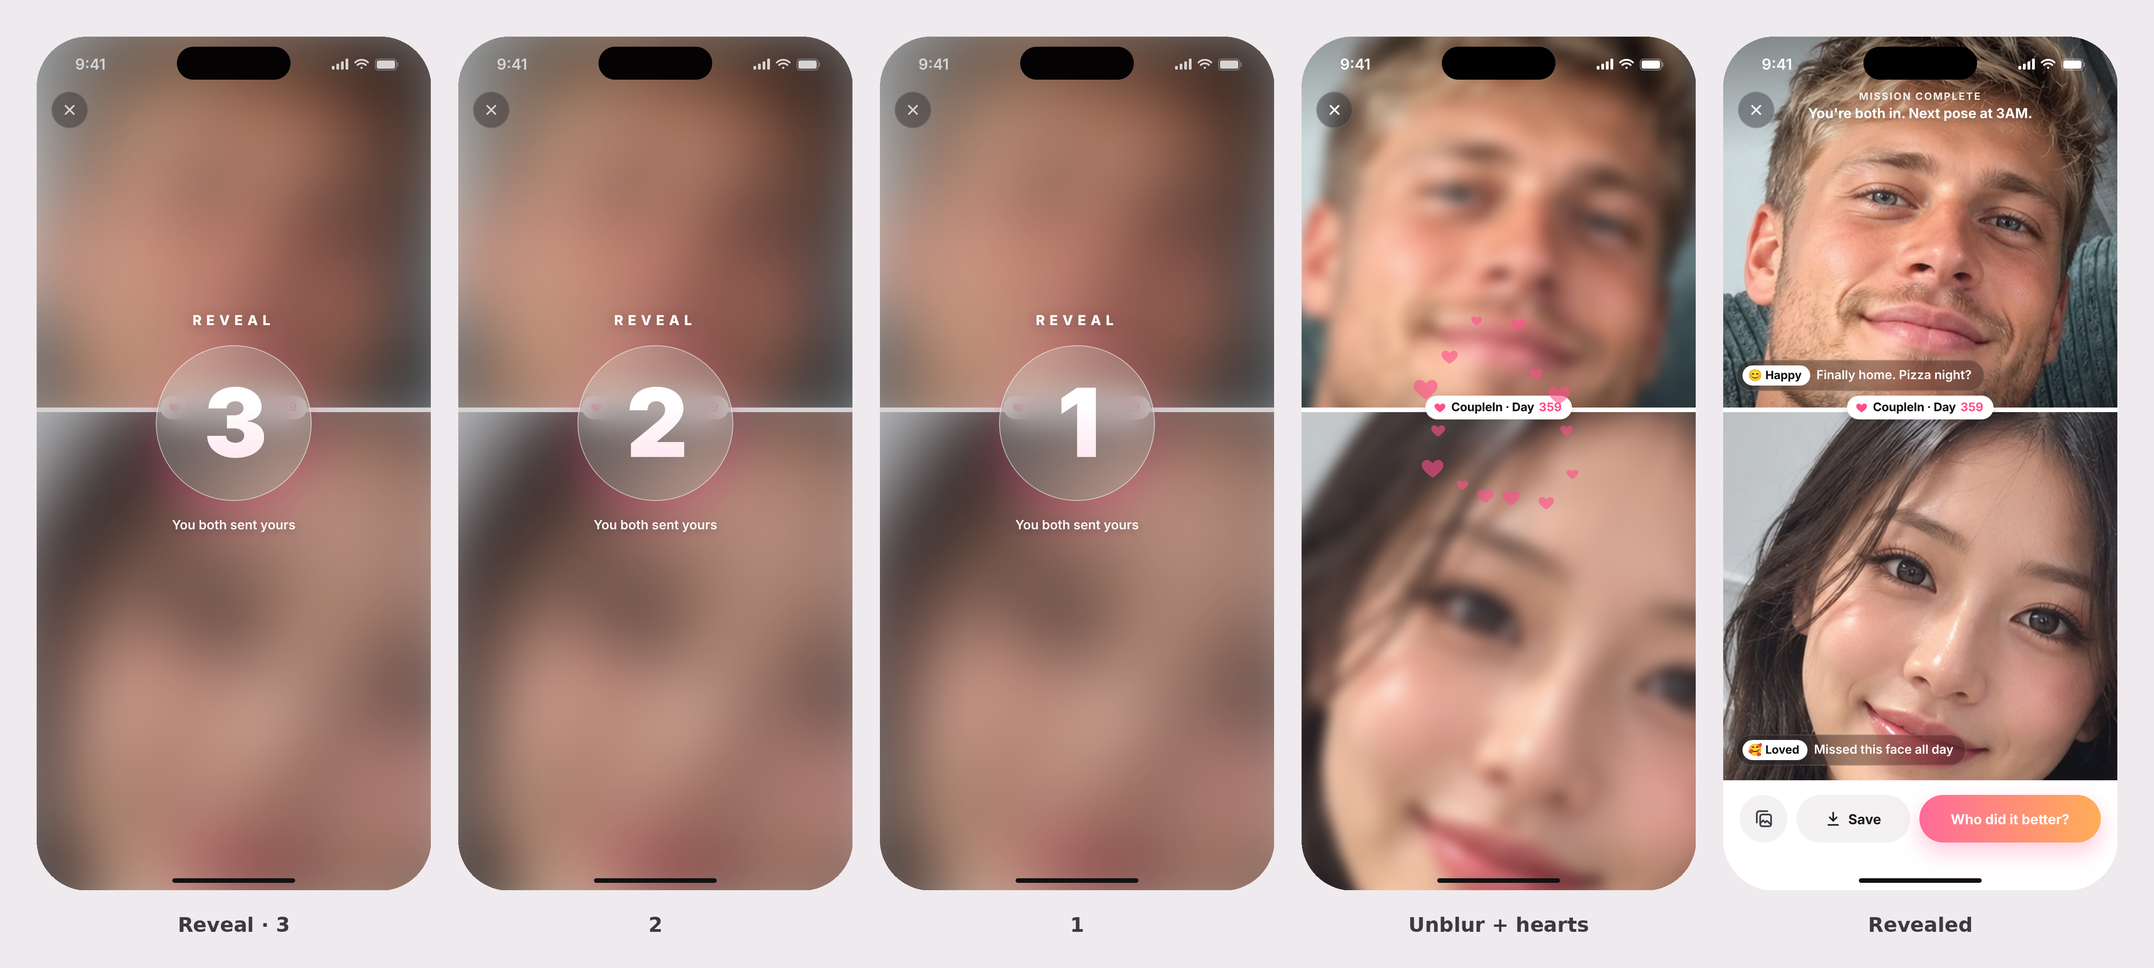
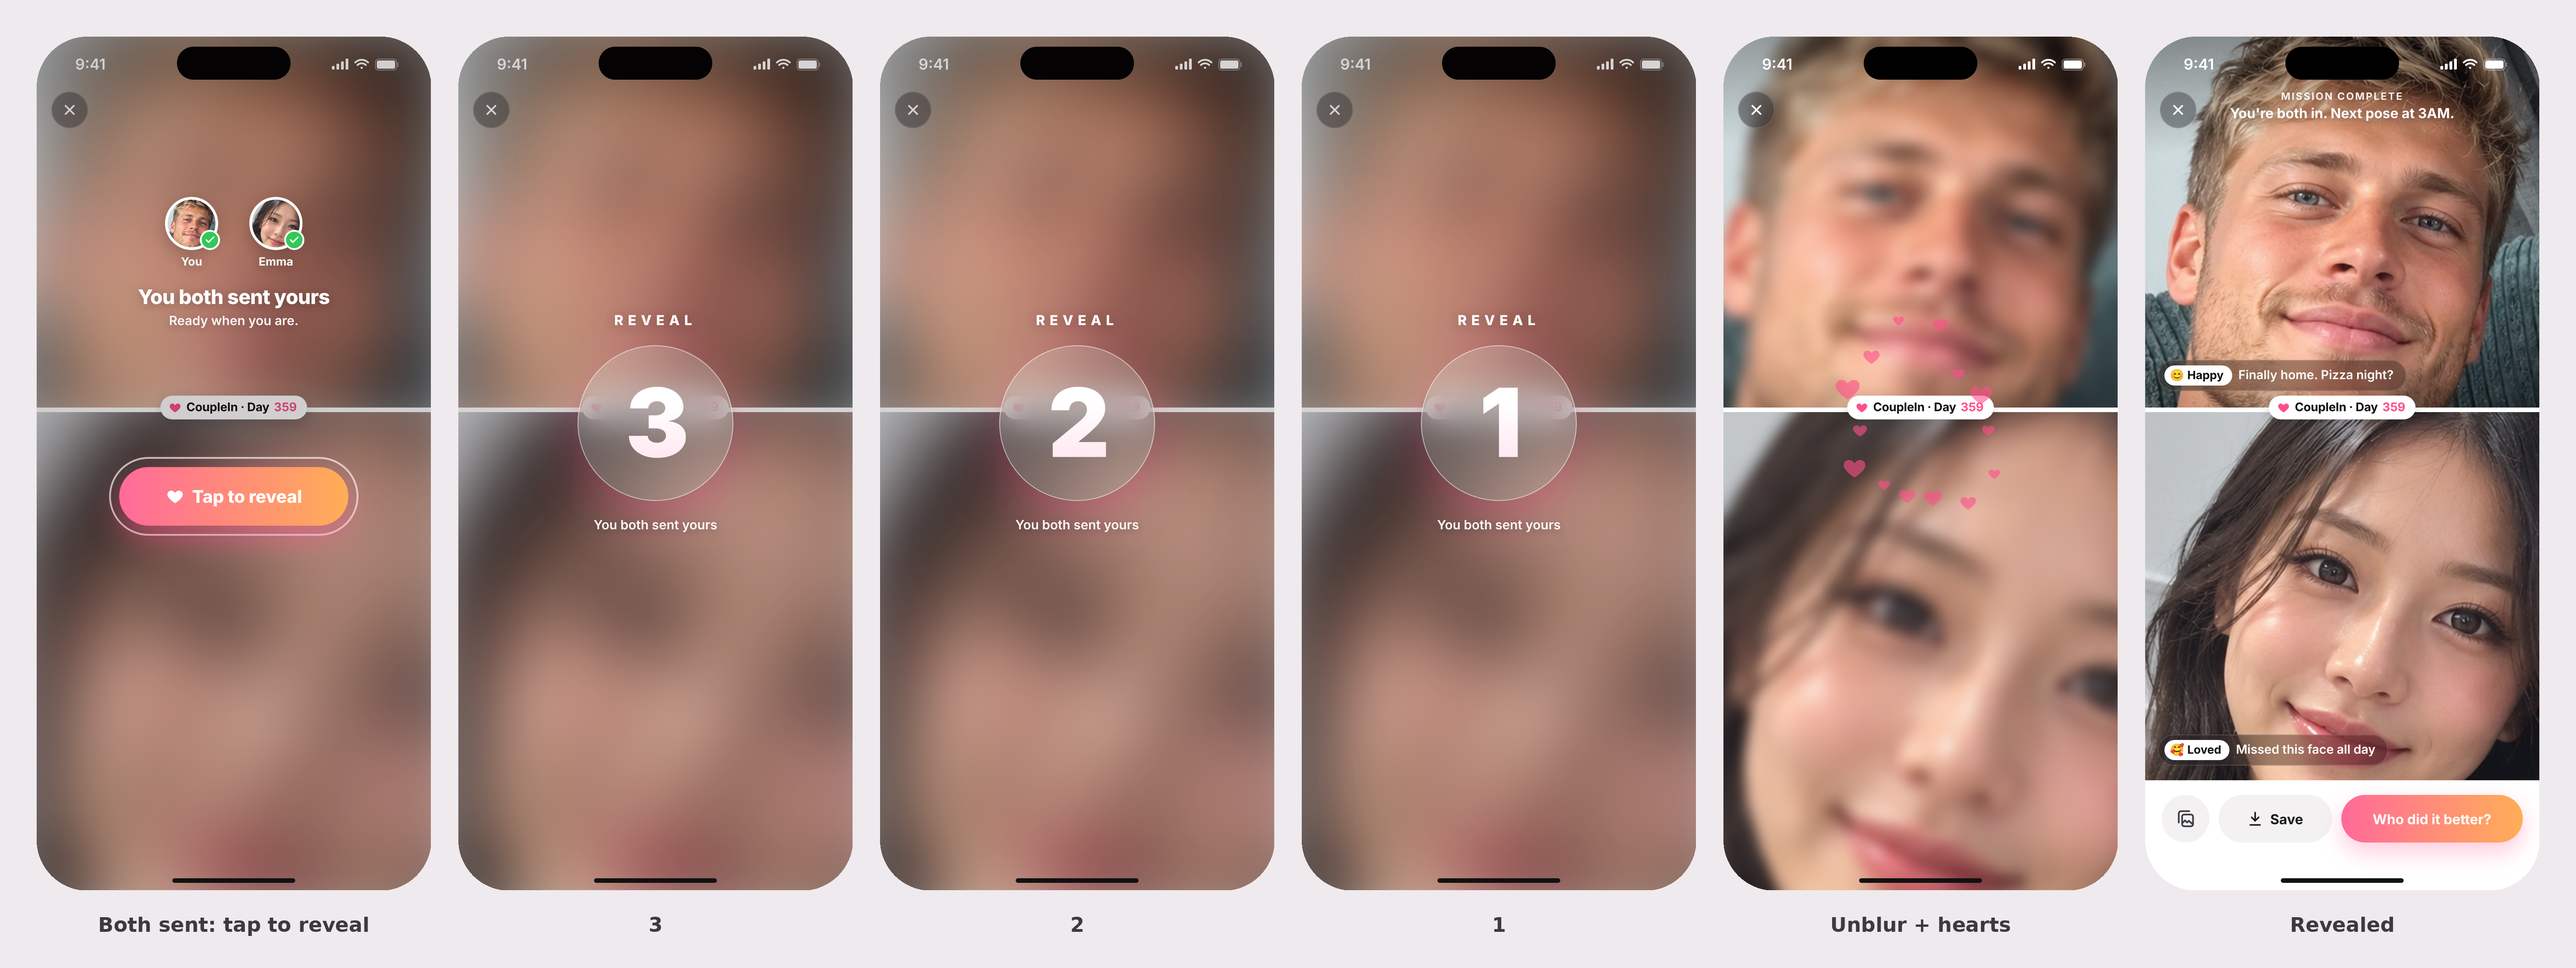
Reveal starts only when the user taps 'Tap to reveal'; updated frames and GIF
Claude-Session: https://claude.ai/code/session_01437rANtd5MAYdKDkxZsNAs

diff --git a/final-plan/Final-Plan-Developer.md b/final-plan/Final-Plan-Developer.md
@@ -122,7 +122,7 @@ The promise made before any photo is taken: neither partner can see the other's 
 10. **Share screen.** Message: "Hi [Partner Name], [Your Name] loves that you are so [compliment]. They made a selfie just for you. Send yours to unlock it." The blurred locked card is attached as an image. Buttons: Share to WhatsApp / Copy link / Remind me later.
 11. **Waiting screen.** Own locked card, "Waiting for [Partner Name] to join." Send reminder. Further selfies stack as locked and unlock when the partner joins. Warning: "Your selfies live on this phone. Don't delete the app until [Partner Name] joins."
 12. **Push when the partner sends:** "[Partner Name] just sent theirs. Tap to reveal."
-13. **Countdown:** "Reveal" then "3... 2... 1..." (section 5), then the reveal. Buttons: Save card / Who did it better?
+13. **Countdown:** Tap to reveal, then "Reveal" "3... 2... 1..." (section 5), then the reveal. Buttons: Save card / Who did it better?
 14. **Week 1 video promise.** "Send 7 poses and we'll make you a video of your first week."
 
 **Flow B: User 2 (partner, arrives by invite)**
@@ -175,17 +175,19 @@ After the photo the timer switches itself back off, so the next photo is a norma
 
 **Camera permission denied.** Explain why and link to Settings. A gallery fallback is allowed only in this case, with a warning.
 
-**Reveal countdown (animated).** Plays as soon as both partners have sent (or when the "[Partner] just sent theirs" push is tapped). Full screen: no tab bar, no header text, no action buttons, only the X. Both photos sit in place but heavily blurred (about 34px), with the white line between them. Centred over the line: "REVEAL" in spaced capitals, a frosted-glass circle with the number, and "You both sent yours" underneath.
+**Tap to reveal (the user starts it).** The reveal never plays on its own. As soon as both partners have sent, each partner lands on a "ready" screen (from the camera, from the "[Partner] just sent theirs" push, or when they next open the app): both photos in place but heavily blurred (about 34px), the white line and Day pill between them, both profile photos with green ticks, "You both sent yours" and "Ready when you are.", and one big pink button, **♥ Tap to reveal**, sitting just under the line with a soft pulsing ring around it. Only the X is shown otherwise. Each partner taps their own button; one partner revealing does not reveal for the other. If the user leaves without tapping, they come back to this same screen.
+
+**Reveal countdown (animated).** Starts the moment the user taps the button (the button presses in to 95%). Full screen: no tab bar, no header text, no action buttons, only the X. Centred over the line: "REVEAL" in spaced capitals, a frosted-glass circle with the number, and "You both sent yours" underneath.
 
 1. **3, 2, 1.** One second per number. Each number pops in at 125% and settles to 100% in about 250ms, with a light haptic on each.
 2. **Reveal.** After 1 the circle fades, both photos unblur over about 0.8s, and a burst of small pink hearts flies out from the Day pill on the line.
 3. **Revealed.** The caption and mood pills, the header "Mission complete / You're both in. Next pose at 3AM." and the white action strip (Our cards, Save, Who did it better?) slide in.
 
-No skip. It runs from local state with no network dependency: both photos are already on the phone and the combined card is cached before the countdown starts, so there is no spinner. If the app is closed mid-countdown, reopening lands on the revealed screen. If the user taps the push hours later, the countdown still plays. "Who did it better?" never appears during the countdown.
+No skip. It runs from local state with no network dependency: both photos are already on the phone and the combined card is cached before the countdown starts, so there is no spinner. If the app is closed mid-countdown, reopening lands on the revealed screen. If the user opens the app or taps the push hours later, they land on the Tap to reveal screen and the countdown plays when they tap. "Who did it better?" never appears during the countdown.
 
-![Reveal countdown: 3, 2, 1, unblur with hearts, revealed](images/reveal-countdown.png)
+![Reveal: Tap to reveal, 3, 2, 1, unblur with hearts, revealed](images/reveal-countdown.png)
 
-![Reveal animation (loop)](images/reveal-animation.gif)
+![Reveal animation (loop): tap, countdown, unblur, revealed](images/reveal-animation.gif)
 
 **Reveal screen.** Both photos clean, each with its caption + mood pill ("😊 Happy · Finally home. Pizza night?"), the Day pill on the line, the header "Mission complete / You're both in. Next pose at 3AM.", and the white action strip under the photos (it never covers them): Our cards, **Save** (opens the Save sheet) and **Who did it better?** (opens the Save sheet, then the share sheet).
 
@@ -255,7 +257,7 @@ R2 is preferred because it charges nothing for downloads.
 | When | Message |
 | --- | --- |
 | New pose unlocks (3AM shared timezone, delivered at the couple's chosen time) | Contains today's pose, so the task is visible before opening the app |
-| Partner has sent | "[Partner Name] just sent theirs. Tap to reveal." Opens the countdown |
+| Partner has sent | "[Partner Name] just sent theirs. Tap to reveal." Opens the Tap to reveal screen |
 | Partner has not joined after 7 days | Reminder to the inviter |
 | Photos about to lock (days 10 to 13) | "Save your cards before they lock" |
 | 7th pair revealed | "Your Week 1 video is ready" |
@@ -411,6 +413,6 @@ The daily question can come from any category; "Ask another" serves from the cho
 - Share card export with the social safe zone, the Day pill and the watermark; Save sheet with the single Watermark switch (Pro).
 - Pro paywall with the 2-for-1 banner and the six-line value stack.
 - Bond (section 8): Today, Answer sheet, Reveal, Ask another, question bank, notifications.
-- Animated reveal: blurred photos, "REVEAL" 3-2-1 with pop and haptics, unblur with heart burst, then the revealed screen.
+- Tap to reveal screen (user must tap), then the animated reveal: blurred photos, "REVEAL" 3-2-1 with pop and haptics, unblur with heart burst, then the revealed screen.
 - Two daily Mission nudges (9 AM and 6 PM local, editable), stopped as soon as the user sends.
 - Watermark = the centre pill: "CoupleIn · Day N" (free) or "N Days of Us" (Pro, watermark off).
